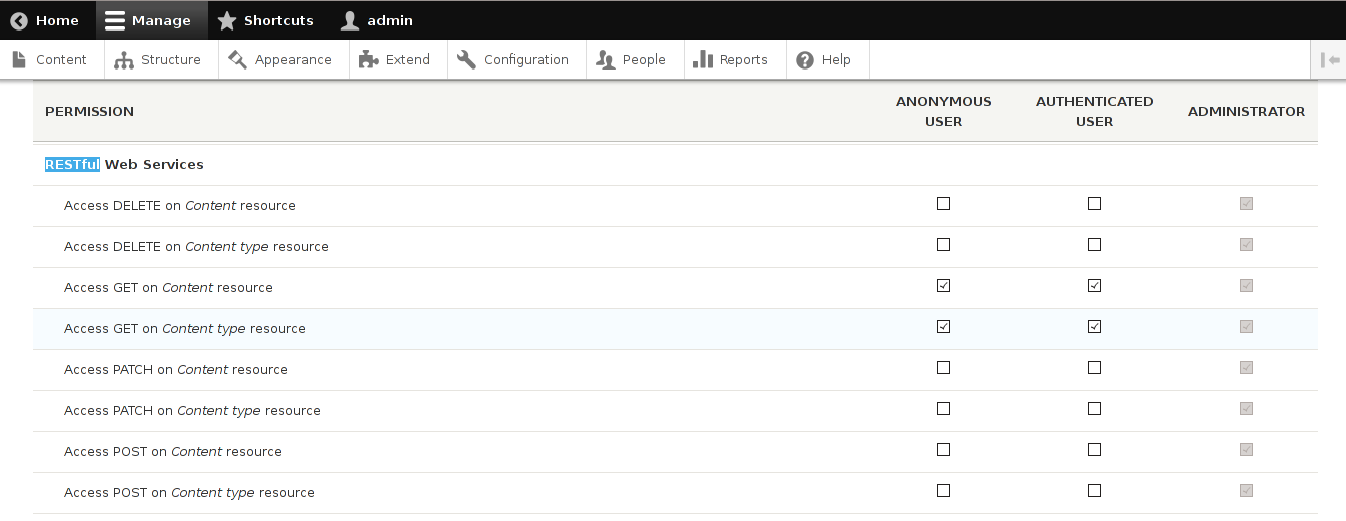
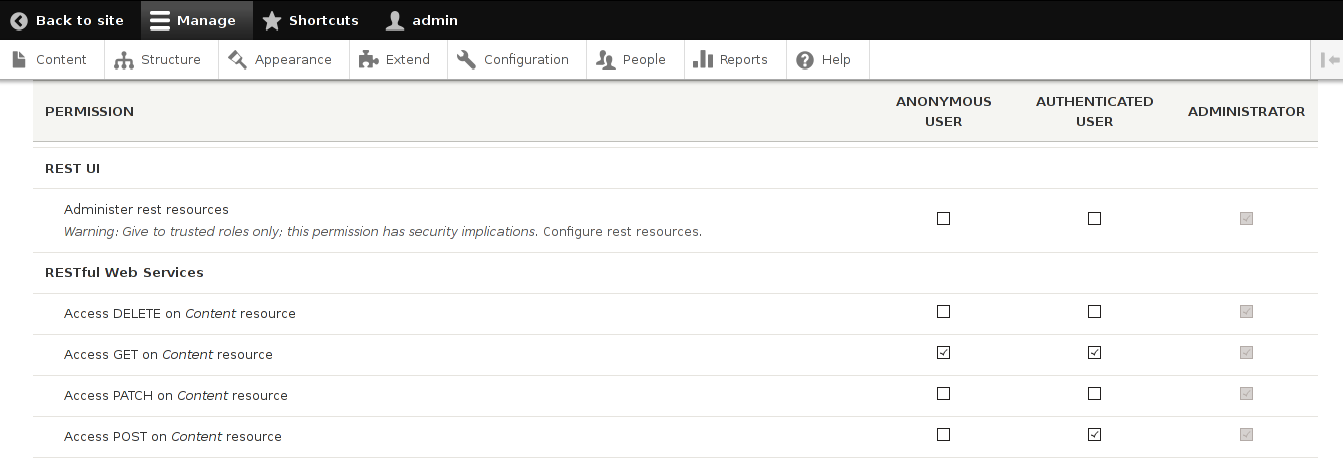
Avanzando con servicios

diff --git a/reveal.js/drupal_services.html b/reveal.js/drupal_services.html
@@ -450,21 +450,29 @@ drush dl -y restui ; drush en -y restui
     <a href="files/services/drupal8_RESTui.png"><img src="files/services/drupal8_RESTui.png"/></a>
   </section>
   <section>
-    <p>Pendiente programación...</p>
-    <br>
-    <p>Originalmente usado como base: <a href="https://drupalize.me/blog/201401/introduction-restful-web-services-drupal-8">An Introduction to RESTful Web Services in Drupal 8 (by drupalize.me)</a></p>
-    <br>
-    <p>Articulos:</p>
-    <ul>
-      <li>D8 usa <a href="https://www.drupal.org/node/2405657">GET, POST, PATCH y DELETE</a>, no usa <a href="https://groups.drupal.org/node/284948">PUT (explicación de porque)</a></li>
-      <li>En el articulo de "<a href="https://www.drupal.org/node/2405657">GET, POST, PATCH y DELETE</a>" también vemos un método de login similar al usado en D7 para Streetlink...</li>
-    </ul>
+    <h3>Permisos del servicio</h3>
+    <p>People -> Permissions</p>
+    <a href="files/services/drupal8_RESTful_permissions.png"><img src="files/services/drupal8_RESTful_permissions.png"/></a>
   </section>
-</section>
-
-<section>
   <section>
-    <p style="text-align: left;">Links:</p>
+    <h3>Usando un servicio: GET</h3>
+    <p>URL: <span style="font-family: monospace; font-size: 60%;">http://drupal8.local//node/3?_format=json</span></p>
+    <ul class="col" style="width: 400px; display: inline-block; vertical-align: top; list-style-type: none;">
+      <a href="files/services/drupal8_Services_node_GET.png"><img src="files/services/drupal8_Services_node_GET.png"/></a>
+    </ul>
+    <ul class="col" style="width: 400px; display: inline-block; vertical-align: top; list-style-type: none;">
+      <a href="files/services/drupal8_Services_node_GET_response.png"><img src="files/services/drupal8_Services_node_GET_response.png"/></a>
+    </ul>
+    <p>Resultado: <a href="files/services/drupal8_Services_node_GET_response.json" style="font-family: monospace; font-size: 60%;">drupal8_Services_node_GET_response.json</a></p>
+  </section>
+  <section>
+    <h3>Usando un servicio: POST</h3>
+  </section>
+  <section>
+    <h3><a href="http://enzolutions.com/articles/2014/12/16/how-to-create-a-rest-resource-in-drupal-8/">Como crear un REST resource</a></h3>
+  </section>
+  <section>
+    <p style="text-align: left;">Articulos:</p>
       <ul>
         <li><a href="https://www.drupal.org/node/736522">Documentación Services 3.x Drupal (muy completa)</a></li>
         <li><a href="https://www.ostraining.com/blog/drupal/services/">Drupal Services Module</a></li>
@@ -472,7 +480,13 @@ drush dl -y restui ; drush en -y restui
         <li><a href="https://drupalwatchdog.com/volume-4/issue-2/getting-started-services-using-views">Services Using Views</a> (<a href="https://www.drupal.org/project/services_views">module</a>)</li>
         <li><a href="https://dev.acquia.com/blog/web-services-drupal-8-core">Web services in Drupal 8</a></li>
         <li><a href="http://data.agaric.com/powering-your-api-drupal-8">Powering Your API with Drupal 8</a></li>
-        <li><a href=""></a></li>
+        <li><a href="https://drupalize.me/blog/201401/introduction-restful-web-services-drupal-8">Intro RESTful Web Services D8</a> (by drupalize.me)</li>
+        <li>Métodos REST disponibles para D8:
+          <ul style="font-size: 75%">
+            <li>D8 usa <a href="https://www.drupal.org/node/2405657">GET, POST, PATCH y DELETE</a>, no usa <a href="https://groups.drupal.org/node/284948">PUT (explicación de porque)</a></li>
+            <li>En el articulo de "<a href="https://www.drupal.org/node/2405657">GET, POST, PATCH y DELETE</a>" también vemos un método de login.</li>
+          </ul>
+        </li>
       </ul>
   </section>
 </section>
